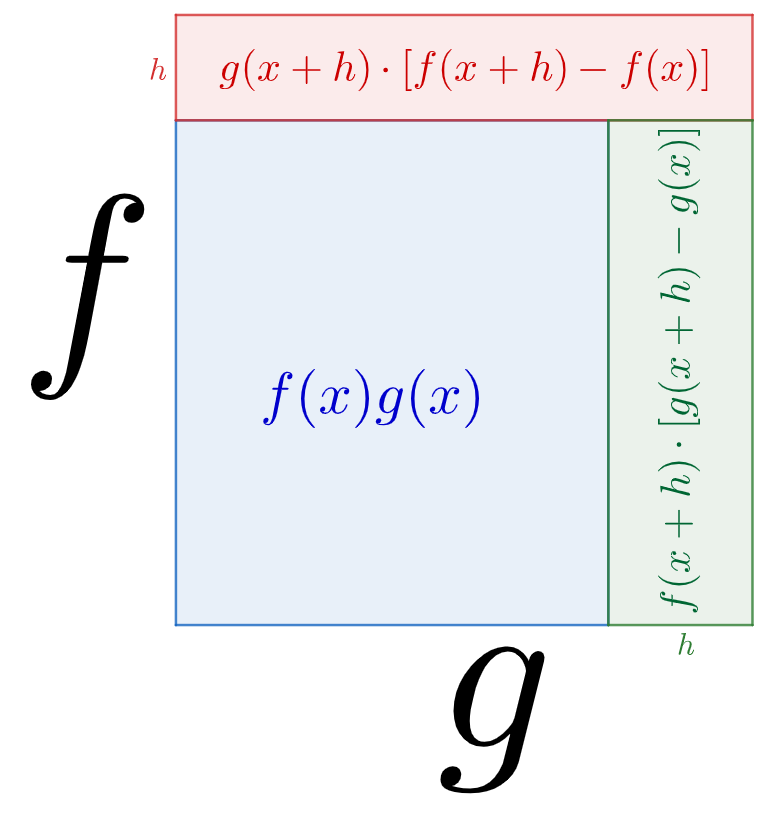
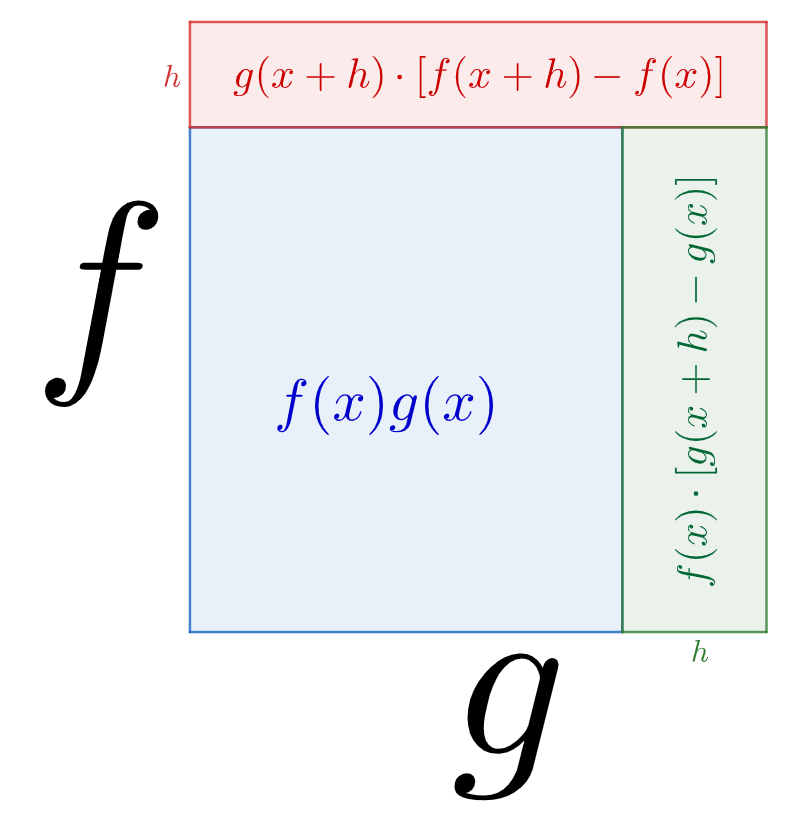
some changes

Changed region(s): [[0.0307, 0.0, 0.9821, 0.9828], [0.3376, 0.4607, 0.6445, 0.5528]]

diff --git a/מטלה 2/main.tex b/מטלה 2/main.tex
@@ -7,6 +7,7 @@
 \usepackage{graphicx} %package to manage images
 \graphicspath{ {./images/} }
 \usepackage{wrapfig}
+\usepackage{empheq}
 
 \title{נבחרת ישראל הצעירה בפיזיקה - מטלה 2 }
 \author{איתי מור}
@@ -27,8 +28,7 @@
     \begin{align*}
         \centering
         \includegraphics[scale=0.3]{images/from_tirgul_q5_b.png}
-    \end{align*}    
-
+    \end{align*}
 מכיוון שהכוחות המאונכים לטריז מבטלים אלו את אלו, הכוחות היחידים הפועלים על החוליות בשרשרת הם הכוחות הפועלים במקביל לטריז.\\
 נסמן את אורך הצלע השמאלית של הטריז ב
 $a$
@@ -61,7 +61,19 @@ $n$
 \newpage
 \subsection*{זינוק בירידה - המשך}
 
-
+\newpage
+\subsection*{הרמת משקולות}
+\begin{align*}
+    \centering
+    \fbox{
+        \includegraphics[scale=0.4]{images/t2_q2_diagram.png}
+    }
+\end{align*}
+מהשרטוט ניתן לראות ש-
+\begin{flalign*}
+    &4T = (m+M)g&&
+    \\&T = (m+M)\frac{g}{4}&&
+\end{flalign*}
 
 
 
@@ -80,15 +92,33 @@ $n$
             \includegraphics[scale=0.4]{images/derivative_drawing.png}
         }
     \end{align*}
-    \begin{equation*}
-      \frac{\partial f g}{\partial x} = \lim_{h \to 0}{\frac{f(x+h)g(x+h) - f(x)g(x)}{h}} 
-      = \lim_{h \to 0}{ \frac{ g(x+h) \cdot \left[ f(x+h)-f(x) \right] + f(x) \cdot \left[ g(x+h) - g(x) \right]}{h} }
-    \end{equation*}
-    \begin{equation*}
-        = \frac{\partial f}{\partial x} \cdot \lim_{h \to 0}{g(x+h)}  + \frac{\partial g}{\partial x} \cdot \lim_{h \to 0}{f(x)} 
-        = \frac{\partial f}{\partial x} g + \frac{\partial g}{\partial x} f
-    \end{equation*}
+    
+    \begin{flalign*}
+      \frac{d (f g)}{d x} = \lim_{h \to 0}{\frac{f(x+h)g(x+h) - f(x)g(x)}{h}} 
+      = \lim_{h \to 0}{ \frac{ g(x+h) \cdot \left[ f(x+h)-f(x) \right] + f(x) \cdot \left[ g(x+h) - g(x) \right]}{h} } &&
+    \end{flalign*}
+    \begin{flalign*}
+        = \frac{d f}{d x} \cdot \lim_{h \to 0}{g(x+h)}  + \frac{d g}{d x} \cdot \lim_{h \to 0}{f(x)} 
+        = \frac{d f}{d x} g + \frac{d g}{d x} f&&
+    \end{flalign*}
+
+    \item כלל המנה:
+    \begin{flalign*}
+        \frac{d \left( \frac{f}{g}\right)}{d x} = \lim_{h \to 0}{\frac{\frac{f(x+h)}{g(x+h)} - \frac{f(x)}{g(x)}}{h}}
+        = \lim_{h \to 0}{\frac{\frac{f(x+h)g(x) - f(x)g(x+h)}{g(x)g(x+h)}}{h}}
+        = \frac{\displaystyle \lim_{h \to 0}{\frac{f(x+h)g(x)-g(x+h)f(x)}{h}}}{\displaystyle \lim_{h \to 0}{g(x)g(x+h)}}&&
+    \end{flalign*}
+    \begin{flalign*}
+        = \frac{\displaystyle \lim_{h \to 0}{\frac{f(x+h)g(x) - g(x+h)f(x) + g(x)f(x) - g(x)f(x)}{h}}}{g^2(x)}&&
+    \end{flalign*}
+    \begin{flalign*}
+        = \frac{\displaystyle \lim_{h \to 0}{g(x) \cdot [f(x+h) - f(x)]} - \lim_{h \to 0}{f(x) \cdot [g(x+h) - g(x)]}}{g^2(x)}
+        = \frac{f(x) \frac{d f}{d x} - g(x) \frac{d g}{d x}}{g^2(x)}&&
+    \end{flalign*}
 \end{enumerate}
+
+
+
 
 \subsection*{מן הפח אל הפחית}
 \begin{enumerate}
@@ -113,7 +143,7 @@ $n$
   \begin{equation*}
       A(r) =  2\pi r\left( h+r \right) = 2\pi hr + 2\pi r^2
   \end{equation*}
-  נציב את הערך של הגובה שקיבלונו:
+  נציב את הערך של הגובה שקיבלנו:
     \begin{equation*}
       A(r) =  2\pi r \cdot \frac{V}{\pi r^2} + 2\pi r^2 = \frac{2V}{r} +2\pi r^2
     \end{equation*}
@@ -145,8 +175,47 @@ $n$
     \end{equation*}
     כלומר היחס בין הרדיוס לגובה שנותן את העלות המינימלית הוא $1 : 2$
 
-
-
+    \item בפחית קוקה קולה רגילה,היחס בין הרדיוס לגובה הוא $\frac{6}{31}$:
+    \begin{align*}
+        \centering
+        \fbox{
+            \includegraphics[scale=0.4]{images/can_measures.png}
+        }
+    \end{align*}
+    נסמן את פונקצית עלות הייצור של הפחית כתלות ברדיוס ב
+    $f(r)$,
+    את עובי הבסיסים ב
+    $w_b$
+    ואת עובי המעטפת ב
+    $w_s$.
+    \begin{flalign*}
+        f(r)=2\pi r^2 w_b + 2\pi r h w_s&&
+    \end{flalign*}
+    מנוסחאת נפח של פחית נקבל-
+    \begin{flalign*}
+        &V = \pi r^2 h&&
+        \\&h = \frac{V}{\pi r^2}&&
+    \end{flalign*}
+    נציב בפונקציית עלות הייצור ונקבל:
+    \begin{flalign*}
+        &f(r) = 2\pi r^2 w_b + \frac{2\pi r V w_s}{\pi r^2} = 2\pi r^2 w_b +\frac{2V}{r}w_S&&
+    \end{flalign*}
+    נגזור את הפונקציה ונשווה ל-0 כדי למצוא נקודת קיצון:
+    \begin{flalign*}
+        &\frac{d\,f}{d\,r} = 4\pi r w_b - \frac{2V}{r^2} w_s = 0&&
+      \\&4\pi r w_b = \frac{2V}{r^2}w_s&&
+      \\&\frac{2\pi r^3}{V} = \frac{w_s}{w_b}&&
+      \\&\frac{2\pi r^3}{\pi r^2 h} = \frac{w_s}{w_b}&&
+      \\&\frac{2r}{h} = \frac{w_s}{w_b}&
+      \\&\frac{w_s}{w_b} = \frac{12}{31} \approx \frac{2}{5}
+    \end{flalign*}
+    זוהי בהכרח נק' מינימום מכיוון שגם כשהיחס בין הרדיוס לגובה שואף לאינסוף )הרדיוס שואף לאינסוף והגובה שואף לאפס( עלות הייצור שואפת לאינסוף וגם כשהיחס בין הרדיוס לגובה שואף לאפס )הגובה שואף לאינסוף והרדיוס שואף לאפס( עלות הייצור שואפת לאינסוף:
+    \begin{flalign*}
+        \lim_{r \to \infty}{2\pi r(\frac{V}{2\pi r}+r)} = \infty&&
+    \end{flalign*}
+    \begin{flalign*}
+        \lim_{r \to 0^+}{2\pi r(\frac{V}{\pi r^2}+r)} = 2\pi\lim_{r \to 0}{r^2 + \frac{V}{\pi r}} = 2\pi(0 +\infty) = \infty&&
+    \end{flalign*}
 \end{enumerate}
 
 
@@ -206,9 +275,57 @@ $y_1+y_2 = h$
 \end{equation*}
 
 
-
+\newpage
 \subsection*{ובמים...}
-$------------------- -------------------------------------$
+נניח שקיים מסלול A בין שגיא לילד הטובע.
+כעת נסתכל על מסלול B, שחותך את קו החוף במרחק 
+$dy$
+ששואף לאפס ממסלול A.\\
+מכיוון שהמרחק על קו החוף בין המסלולים שואף לאפס, גם הזוויות בין המסלולים ישאפו לאפס:
+\begin{align*}
+    \centering
+    \fbox{
+        \includegraphics[scale=0.8]{images/and_in_the_water_diagram.png}
+    }
+\end{align*}
+לכן הקטע הצהוב זה הקטע שמתווסף למסלול, והקטע הטורקיז זה הקטע שיורד מהמסלול.\\
+נרצה לחשב את השינוי בזמן שלוקח לשגיא להגיע לילד ביחס לשינוי ב
+$dy$.
+הזמן שמתווסף הוא 
+$u\cdot dy\cos \beta$,
+והזמן שיורד הוא
+$v\cdot dy\cos \alpha$.\\
+לכן:
+\begin{flalign*}
+    &dT=dy(u\cos{\beta} - v\cos{\alpha})&&\\
+    &\frac{dT}{dy} = u\cos{\beta} - v\cos{\alpha}&&
+\end{flalign*}
+אנחנו מחפשים את נקודת המינימום, כלומר נקודה שבה כש $dy$ שואף לאפס
+גם $dT$ שואף לאפס.
+\begin{flalign*}
+    &\frac{dT}{dy} = u\cos{\beta} - v\cos{\alpha} = 0&&\\
+    &u\cos{\beta} = v\cos{\alpha}&&
+\end{flalign*}
+
+בנוסף, קיים עוד קשר בין שתי הזוויות:
+\begin{align*}
+    \centering
+    \fbox{
+        \includegraphics[scale=0.1]{images/CamScanner 10-05-2023 20.48.jpg}
+    }
+\end{align*}
+כלומר:
+\begin{flalign*}
+    &d_1 \cot \alpha + d_2 \cot \beta = D&&
+\end{flalign*}
+
+כלומר התנאים על הזוויות הם:
+\begin{empheq}[left=\empheqlbrace]{equation*}
+    \begin{flalign*}
+        &u\cos{\beta} = v\cos{\alpha}&&\\
+        &d_1 \cot \alpha + d_2 \cot \beta = D&&
+    \end{flalign*}
+\end{empheq}
 
 
 
